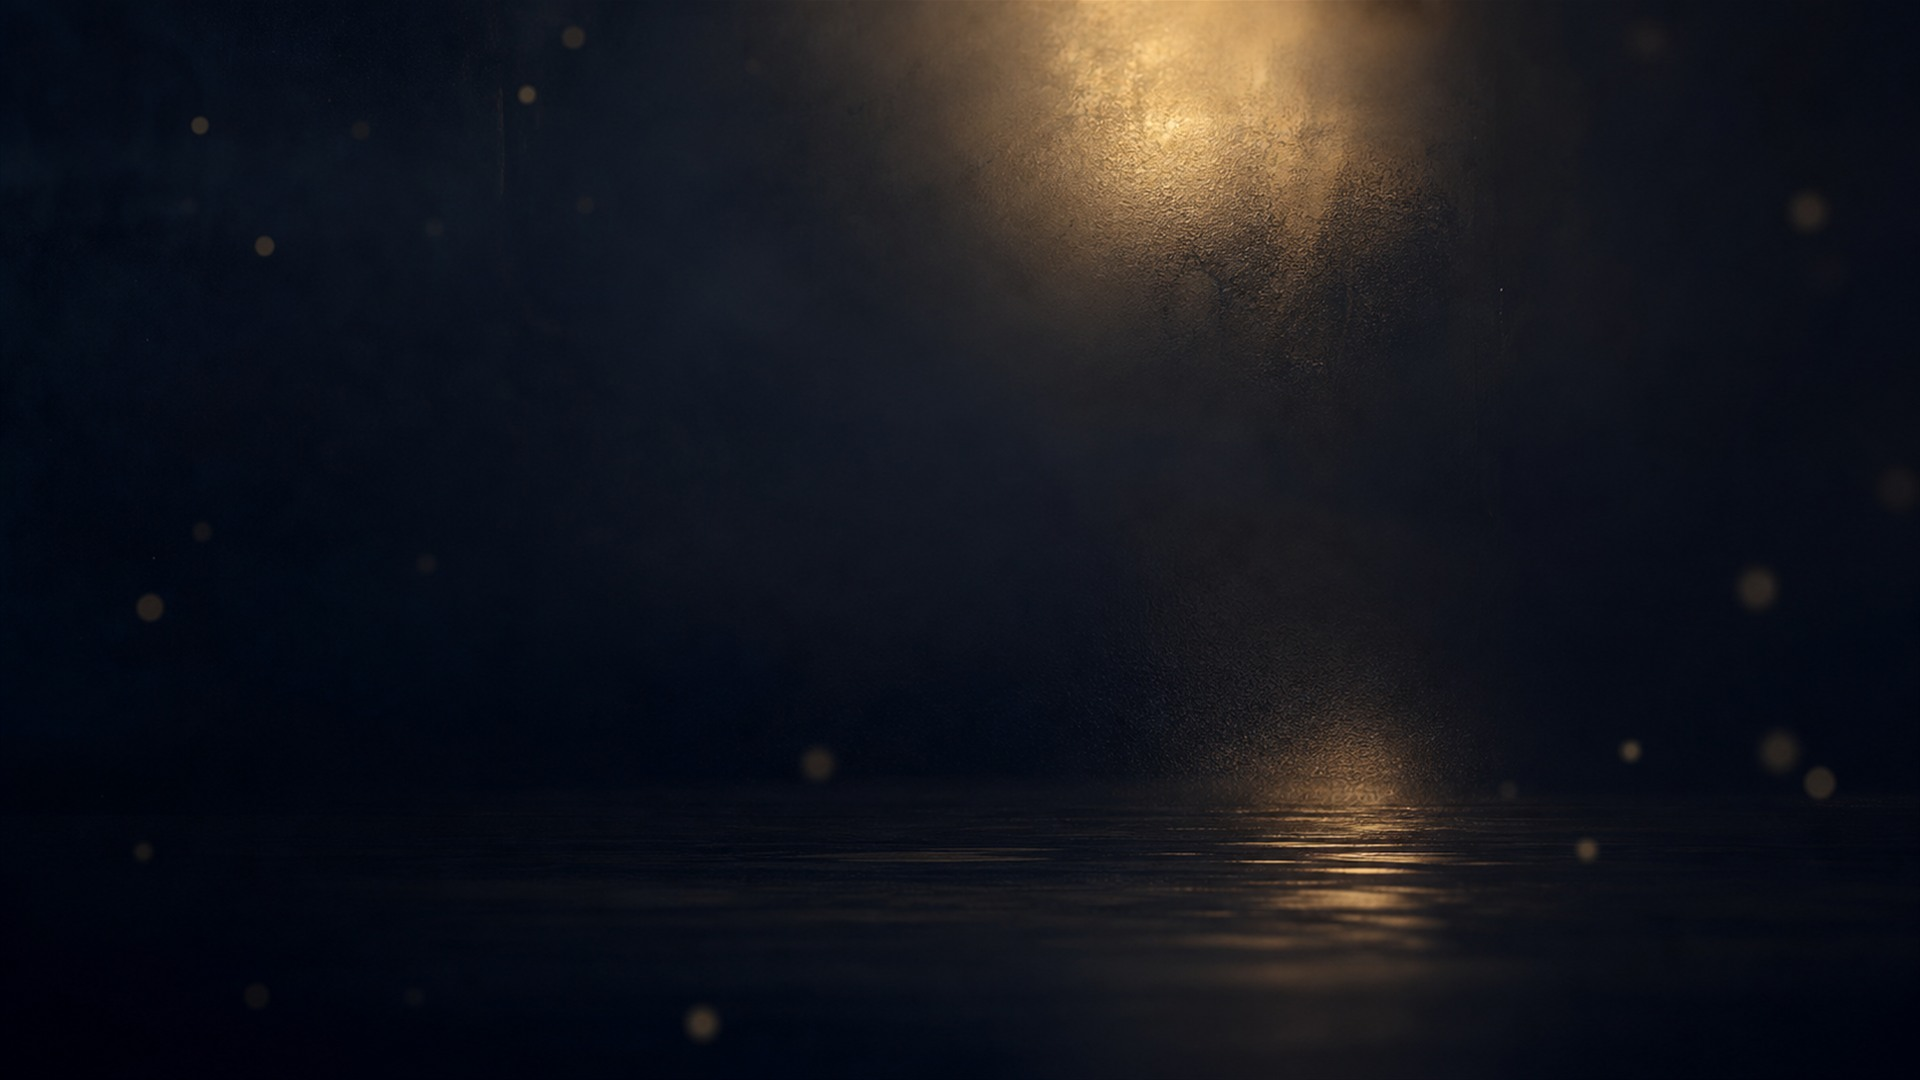
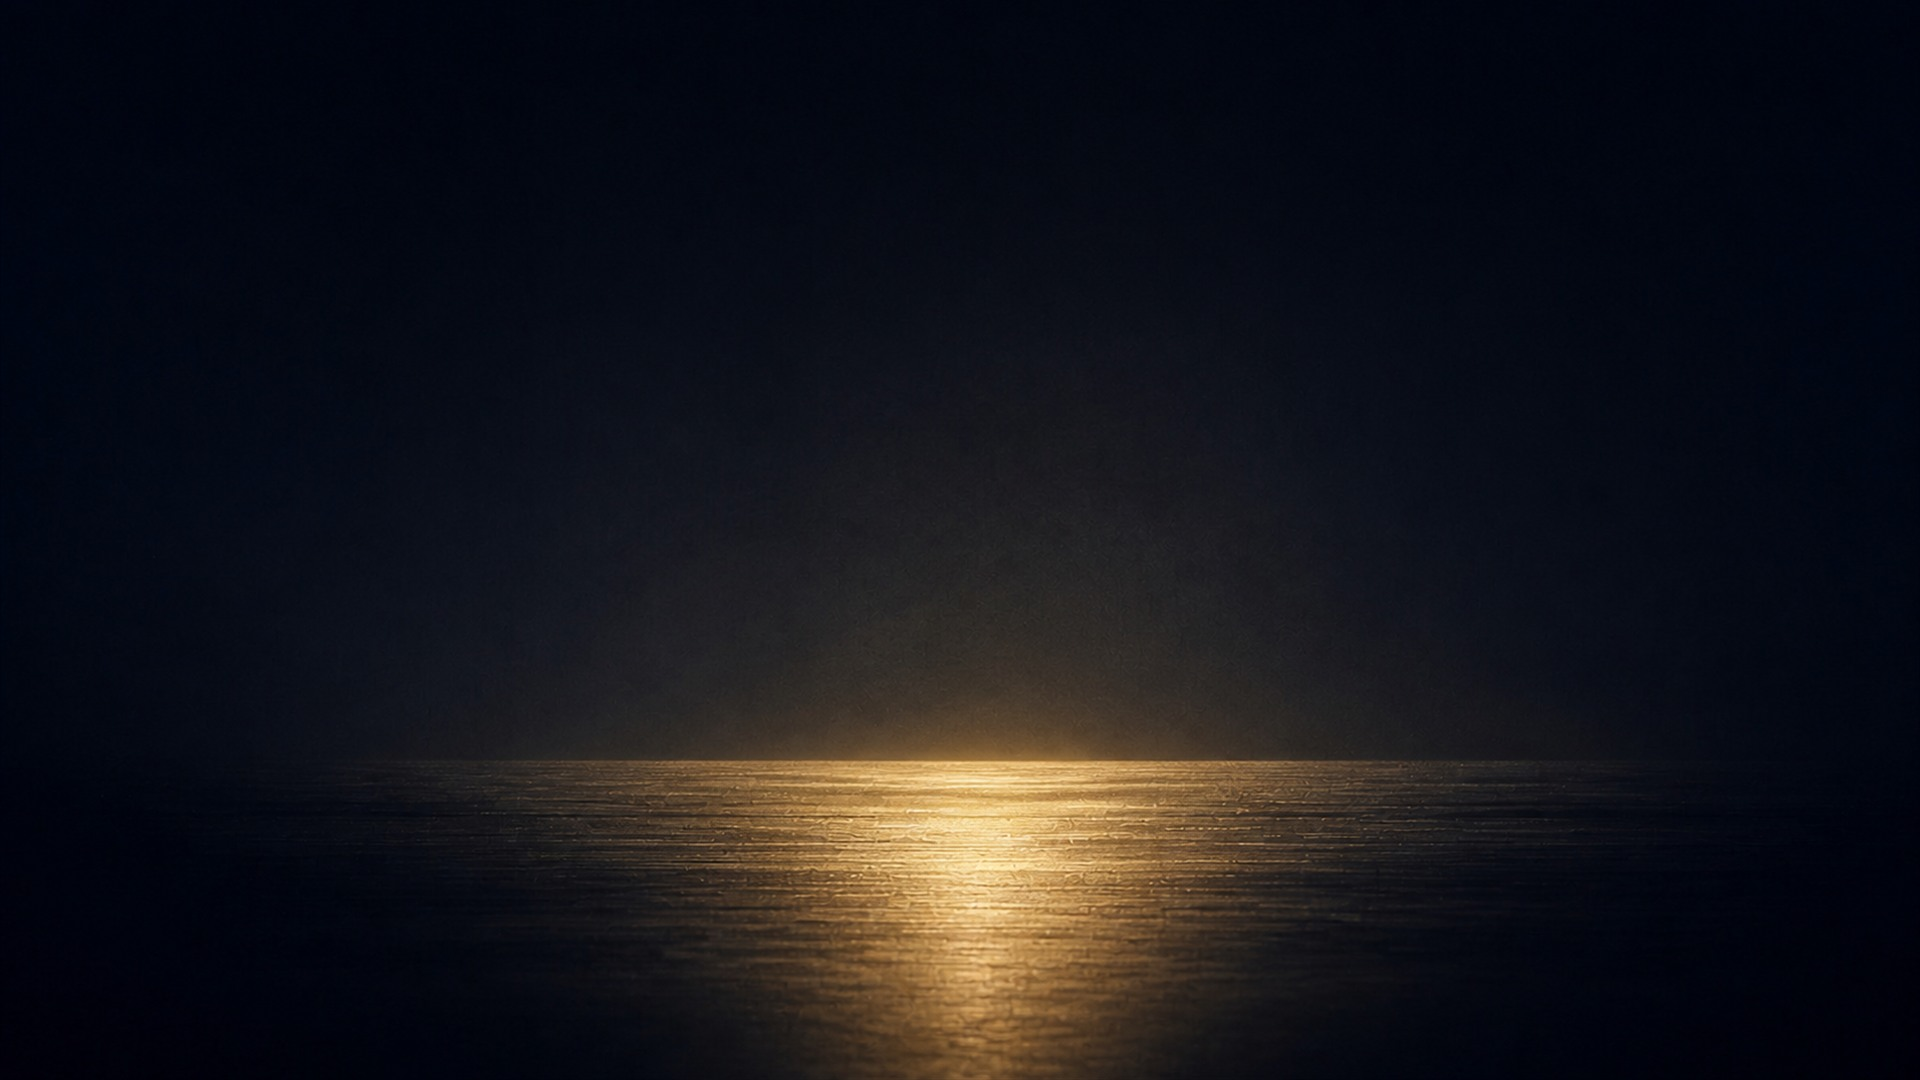
更換底圖：移除散景顆粒、金光改在下方水平面，CSS 改用上暗下亮的線性漸層配合

diff --git a/style.css b/style.css
@@ -86,9 +86,8 @@ nav.site-nav .nav-links a.active {
 /* ── HERO (dark bookend) ── */
 .hero {
   background:
-    radial-gradient(ellipse 55% 42% at 50% 16%, rgba(17, 27, 32, 0.65) 0%, rgba(17, 27, 32, 0) 68%),
-    linear-gradient(180deg, rgba(17, 27, 32, 0.2) 0%, rgba(17, 27, 32, 0.32) 100%),
-    url('images/backgrounds/bg-dark.jpg') center / cover no-repeat,
+    linear-gradient(180deg, rgba(17, 27, 32, 0.5) 0%, rgba(17, 27, 32, 0.22) 55%, rgba(17, 27, 32, 0.06) 100%),
+    url('images/backgrounds/bg-dark.jpg') center bottom / cover no-repeat,
     var(--ink);
   color: var(--mist);
   padding: 9rem 1.75rem 5.5rem;
@@ -125,9 +124,8 @@ nav.site-nav .nav-links a.active {
 /* ── PAGE HEADER (sub-pages) ── */
 .page-header {
   background:
-    radial-gradient(ellipse 55% 50% at 50% 4%, rgba(17, 27, 32, 0.68) 0%, rgba(17, 27, 32, 0) 65%),
-    linear-gradient(180deg, rgba(17, 27, 32, 0.22) 0%, rgba(17, 27, 32, 0.3) 100%),
-    url('images/backgrounds/bg-dark.jpg') center / cover no-repeat,
+    linear-gradient(180deg, rgba(17, 27, 32, 0.55) 0%, rgba(17, 27, 32, 0.25) 60%, rgba(17, 27, 32, 0.08) 100%),
+    url('images/backgrounds/bg-dark.jpg') center bottom / cover no-repeat,
     var(--ink);
   color: var(--mist);
   padding: 7.8rem 1.75rem 3.6rem;